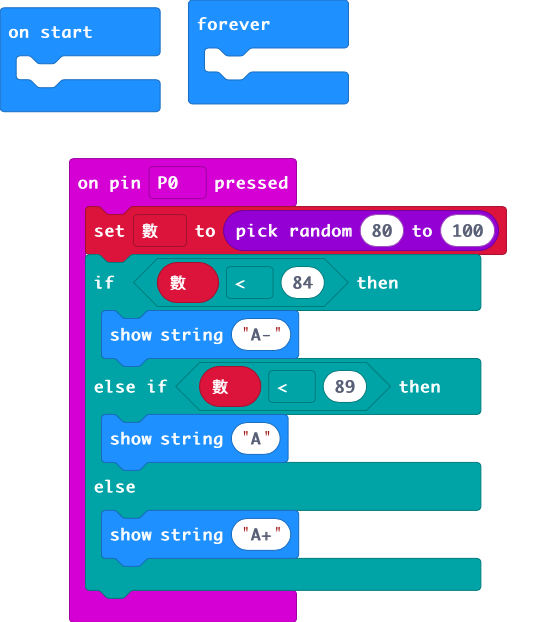
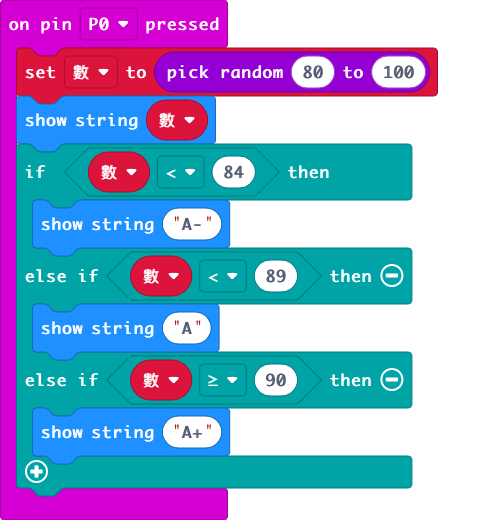
TRY 2

diff --git a/main.ts b/main.ts
@@ -1,14 +1,12 @@
 let 數 = 0
 input.onPinPressed(TouchPin.P0, function () {
     數 = randint(80, 100)
+    basic.showString("" + (數))
     if (數 < 84) {
         basic.showString("A-")
     } else if (數 < 89) {
         basic.showString("A")
-    } else {
+    } else if (數 >= 90) {
         basic.showString("A+")
     }
-})
-basic.forever(function () {
-	
 })
